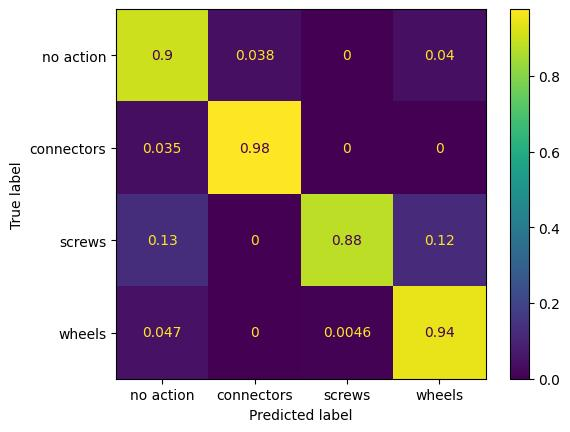
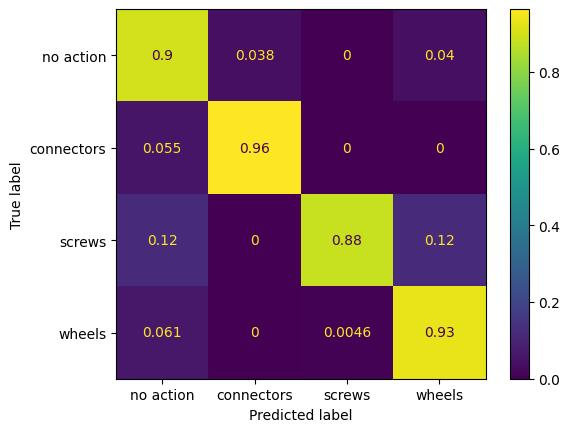
ablation study for traj intention prediction

diff --git a/traj_intention/predict.py b/traj_intention/predict.py
@@ -5,10 +5,30 @@ from pathlib import Path
 FILE_DIR = Path(__file__).resolve().parent
 import numpy as np
 import cv2
+from torch.nn.functional import softmax
+from torch.distributions import Categorical
 import pdb
 
 from DLinear import Model
 from Dataset import INTENTION_LIST
+
+SKELETON_LIST = {
+"left_shoulder": 0,
+"right_shoulder": 1,
+"left_elbow": 2,
+"right_elbow": 3,
+"left_wrist": 4,
+"right_wrist": 5,
+"left_pinky": 6,
+"right_pinky": 7,
+"left_index": 8,
+"right_index": 9,
+"left_thumb": 10,
+"right_thumb": 11,
+"left_hip": 12,
+"right_hip": 13,
+"nose": 14
+}
 
 class Args:
     def __init__(self,**kwargs):
@@ -33,16 +53,66 @@ class IntentionPredictor:
         self.model.eval()
 
     def predict(self,poses,restrict):
+        assert poses.shape[0] == 1
         pred_traj,pred_intention = self.model(poses)
-        if pred_intention != INTENTION_LIST["no action"]:
-            if restrict == "working_area":
-                if pred_intention == INTENTION_LIST["get connectors"]:
-                    pass # TODO
-            else:
-                intention = pred_intention
-        else:
-            intention = pred_intention
-        return pred_traj,intention
+        batch_intention = torch.argmax(pred_intention,1)
+
+        # count = [0,0,0]
+        # sum_ = [0,0,0]
+        working_area_flag = False
+        ood_flag = False
+        if restrict == "working_area":
+            working_area_flag = True
+        elif restrict == "ood":
+            ood_flag = True
+        elif restrict == "all":
+            working_area_flag = True
+            ood_flag = True
+
+        if working_area_flag:
+            intention = batch_intention[0]
+            if intention != INTENTION_LIST["no action"]:
+                # concate_traj = torch.cat((poses,pred_traj),1).view(poses.shape[0],-1,poses.shape[-1]//3,3)
+                concate_traj = poses.view(poses.shape[0],-1,poses.shape[-1]//3,3)
+                if intention == INTENTION_LIST["get_connectors"]:
+                    index = SKELETON_LIST["right_wrist"]
+                    right_wrist_traj = concate_traj[:,:,index,0]
+                    # count[0] += right_wrist_traj.mean().item()
+                    # sum_[0] += 1
+                    if max(right_wrist_traj[0]) < -1.5: # TODO
+                        print("modifying connectors!")
+                        batch_intention[0] = INTENTION_LIST["no action"]
+                elif intention == INTENTION_LIST["get_screws"]:
+                    index1 = SKELETON_LIST["right_wrist"]
+                    index2 = SKELETON_LIST["left_wrist"]
+                    right_wrist_traj = concate_traj[:,:,index1,0]
+                    left_wrist_traj = concate_traj[:,:,index2,0]
+                    # count[1] += right_wrist_traj.mean().item()
+                    # sum_[1] += 1
+                    if min(right_wrist_traj[0]) > -1 and min(left_wrist_traj[0]) > -1: # TODO
+                        batch_intention[0] = INTENTION_LIST["no action"]
+                        print("modifying screws!")
+                        # pdb.set_trace()
+                elif intention == INTENTION_LIST["get_wheels"]:
+                    index = SKELETON_LIST["right_wrist"]
+                    right_wrist_traj_x = concate_traj[:,:,index,0]
+                    right_wrist_traj_z = concate_traj[:,:,index,2]
+                    # count[2] += right_wrist_traj_y.mean().item()
+                    # sum_[2] += 1
+                    # print(right_wrist_traj_z)
+                    if min(right_wrist_traj_x[0]) > -1: # TODO
+                        batch_intention[0] = INTENTION_LIST["no action"]
+                        print("modifying wheels!")
+                        # pdb.set_trace()
+                    elif max(right_wrist_traj_z[0]) < 0.4:
+                        batch_intention[0] = INTENTION_LIST["get_screws"]
+                        print("modifying wheels!")
+
+        if ood_flag:
+            entropy = Categorical(probs = softmax(pred_intention,dim=1)[0].detach()).entropy()
+            if entropy > 0.7:
+                batch_intention[0] = 0
+        return pred_traj,batch_intention
 
 if __name__ == '__main__':
     predictor = IntentionPredictor()

diff --git a/traj_intention/test.py b/traj_intention/test.py
@@ -16,6 +16,7 @@ import pdb
 
 from DLinear import Model
 from Dataset import MyDataset, INTENTION_LIST
+from predict import IntentionPredictor
 
 os.environ["DISPLAY"]=":0"
 if __name__ == '__main__':
@@ -40,7 +41,7 @@ if __name__ == '__main__':
                         help='whether to extract only half body keypoints') 
     parser.add_argument('--test_whole', action="store_true",
                         help='whether to test on build_cars tasks') 
-    parser.add_argument('--retrict', type=str,default="working_area",
+    parser.add_argument('--restrict', type=str,default="working_area",
                         help='four options:[no,working_area,ood,all]') 
     parser.add_argument('--epochs', type=int, default=40) 
     args = parser.parse_args()
@@ -56,36 +57,25 @@ if __name__ == '__main__':
     model.eval()
 
     dataset = MyDataset(JSON_FILE,ROOT_DIR,args,type="test",test_whole=args.test_whole)
-    dataloader = DataLoader(dataset, batch_size=2, shuffle=True)
+    dataloader = DataLoader(dataset, batch_size=1, shuffle=True)
 
-    class_criterion = torch.nn.CrossEntropyLoss(weight=dataset.weights)
-    traj_criterion = torch.nn.MSELoss()
     count = 0
     losses = 0
     error = [0]*args.class_num
     intention_list = []
     labels_list = []
+    predictor = IntentionPredictor()
     for batch in tqdm(dataloader):
         inputs,target_traj,labels = batch
-        pred_traj,pred_intention = model(inputs)
-        gap = 1 if sum(abs(torch.argmax(pred_intention,1)-labels))>0 else 0
+        # pred_traj,pred_intention = model(inputs)
+        pred_traj,pred_intention = predictor.predict(inputs,args.restrict)
+        gap = 1 if sum(abs(pred_intention-labels))>0 else 0
         count += gap
-        if gap == 2:
+        if gap == 1:
             error[labels[0]] += 1
-            error[labels[1]] += 1
-        elif gap == 1:
-            if labels[0] != torch.argmax(pred_intention,1)[0]:
-                error[labels[0]] += 1
-            else:
-                error[labels[1]] += 1
-        traj_loss = traj_criterion(pred_traj,target_traj)
-        intention_loss = class_criterion(pred_intention, labels)
-        for intention in pred_intention:
-            intention_list.append(torch.argmax(intention).item())
-        for label in labels:
-            labels_list.append(label.item())
-        loss = traj_loss + intention_loss
-        losses += loss.item()
+
+        intention_list.append(pred_intention[0].item())
+        labels_list.append(labels[0].item())
 
     intention_list = np.array(intention_list)
     labels_list = np.array(labels_list)
@@ -94,16 +84,16 @@ if __name__ == '__main__':
     cm_display_norm = metrics.ConfusionMatrixDisplay(confusion_matrix = confusion_matrix_norm, display_labels = ["no action","connectors","screws","wheels"])
     cm_display_norm.plot()
     if args.test_whole:
-        plt.savefig(f'{FILE_DIR}/results/cm_norm_test_whole.jpg', bbox_inches = 'tight')
+        plt.savefig(f'{FILE_DIR}/results/cm_norm_test_whole_{args.restrict}_restrict.jpg', bbox_inches = 'tight')
     else:
-        plt.savefig(f'{FILE_DIR}/results/cm_norm_not_test_whole.jpg', bbox_inches = 'tight')
+        plt.savefig(f'{FILE_DIR}/results/cm_norm_not_test_whole_{args.restrict}_restrict.jpg', bbox_inches = 'tight')
     plt.close()
     cm_display = metrics.ConfusionMatrixDisplay(confusion_matrix = confusion_matrix, display_labels = ["no action","connectors","screws","wheels"])
     cm_display.plot()
     if args.test_whole:
-        plt.savefig(f'{FILE_DIR}/results/cm_test_whole.jpg', bbox_inches = 'tight')
+        plt.savefig(f'{FILE_DIR}/results/cm_test_whole_{args.restrict}_restrict.jpg', bbox_inches = 'tight')
     else:
-        plt.savefig(f'{FILE_DIR}/results/cm_not_test_whole.jpg', bbox_inches = 'tight')
+        plt.savefig(f'{FILE_DIR}/results/cm_not_test_whole_{args.restrict}_restrict.jpg', bbox_inches = 'tight')
     count = count / len(dataset)
     print(f"length of dataset:{len(dataset)}")
     print("accuracy: {:.2f}%".format((1 - count) * 100))
